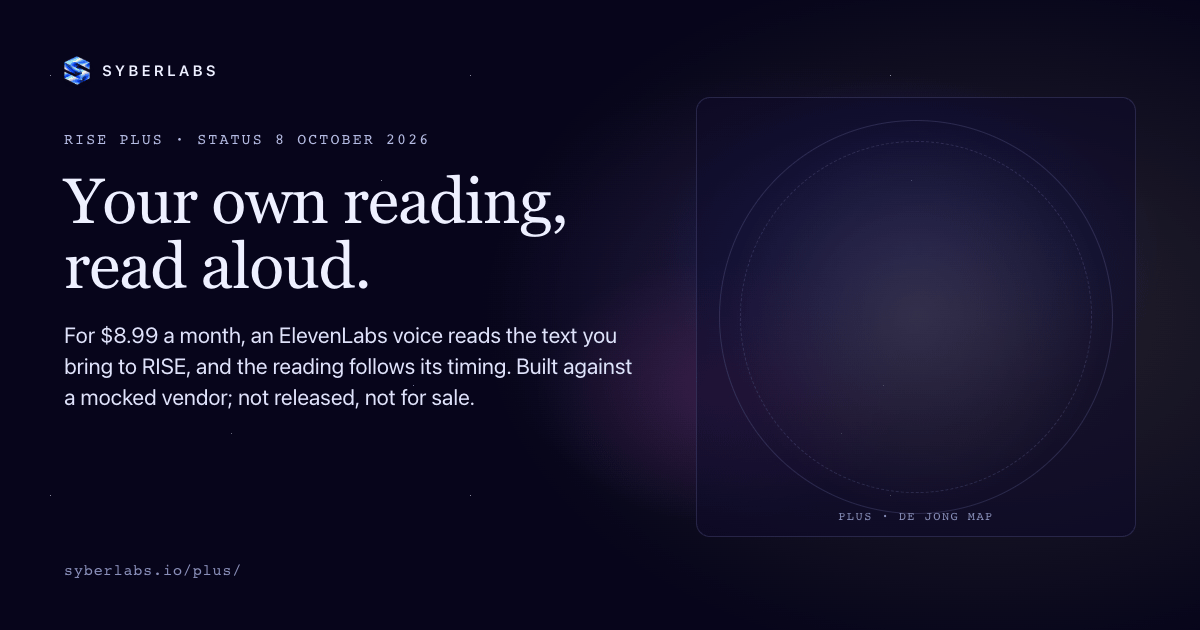
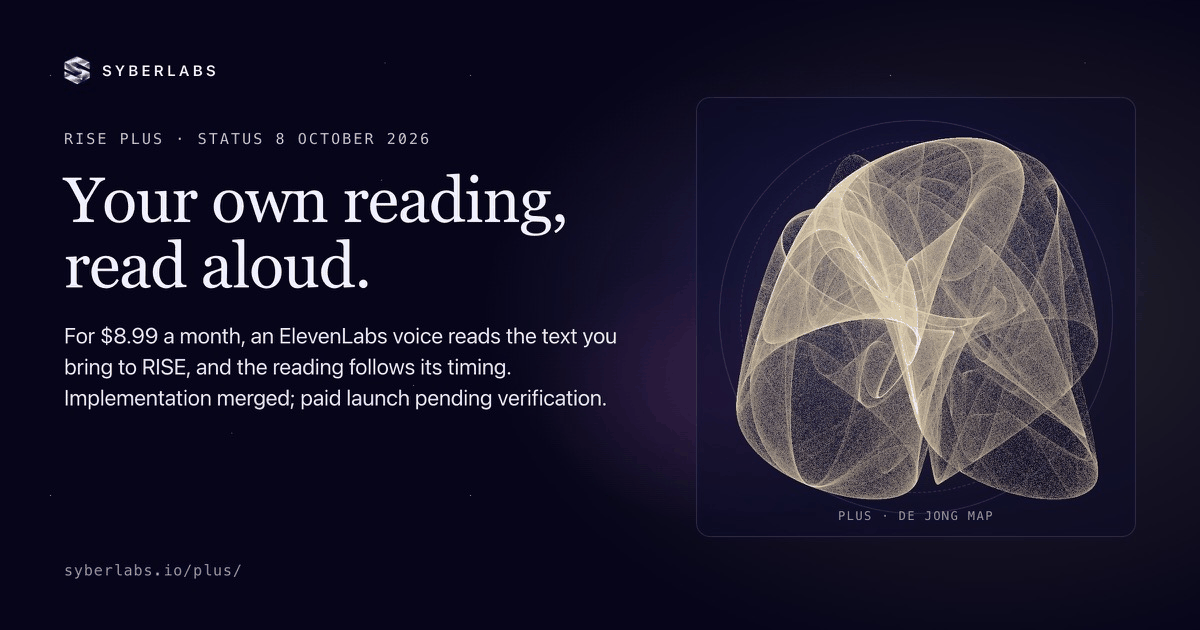
Clarify preview branding and paid voice availability

diff --git a/src/App.jsx b/src/App.jsx
@@ -98,7 +98,7 @@ function Hero() {
       <ul className="sy-wrap">
         <li style={{ '--sy-accent': '#f2d9a6' }}><a href={RISE_APP}><span className="home-launch__meta">RISE Reader · Open beta</span><span className="home-launch__title">Read a poem<Icon name="external" /></span><span className="home-launch__note">Begin with words, light and sound.</span></a></li>
         <li style={{ '--sy-accent': '#ff91df' }}><a href={SKETCH_APP}><span className="home-launch__meta">RISE Sketch · Live</span><span className="home-launch__title">Draw with living ink<Icon name="external" /></span><span className="home-launch__note">Make a mark. Watch it grow.</span></a></li>
-        <li style={{ '--sy-accent': '#90d8f0' }}><a href={OMNI_PREVIEW}><span className="home-launch__meta">FLYSPACE · Preview</span><span className="home-launch__title">Explore a workspace<Icon name="external" /></span><span className="home-launch__note">Try the canvas. AI needs the local app.</span></a></li>
+        <li style={{ '--sy-accent': '#90d8f0' }}><a href={OMNI_PREVIEW}><span className="home-launch__meta">FLYSPACE · Preview</span><span className="home-launch__title">Explore a workspace<Icon name="external" /></span><span className="home-launch__note">Opens as OmniOS. AI needs the local app.</span></a></li>
       </ul>
     </nav>
   </section>;
@@ -216,7 +216,7 @@ function Runtime() {
       </div>
     </div>
     <div className="home-premium sy-card" style={{ '--sy-accent': '#f2d9a6' }} data-reveal>
-      <p className="home-premium__text"><b className="home-premium__name">RISE Premium</b> offers ElevenLabs integration for <b className="home-premium__price">{RISE_PLUS.price}</b> a month.{!live && <Badge status={{ kind: 'early', label: 'Coming soon' }} />}</p>
+      <p className="home-premium__text"><b className="home-premium__name">RISE Premium</b> offers ElevenLabs integration for <b className="home-premium__price">{RISE_PLUS.price}</b> a month.{!live && <Badge status={{ kind: 'early', label: 'Paid launch pending' }} />}</p>
       <a className="sy-btn sy-btn--line home-premium__go" href="/plus/">Learn more<Icon name="arrow" /></a>
     </div>
   </section>;
@@ -251,7 +251,7 @@ const SHOW = {
       ['AI blocks', 'Wire data into AI personas that answer only from what their wires carry, and cite it.'],
       ['APIs on the fly', 'Hand it an OpenAPI document or MCP tools and they become blocks. Anything that writes waits for your approval.'],
     ],
-    note: 'The public preview runs the canvas and live data blocks. AI answers run in the local app with your own keys.',
+    note: 'The public preview opens as OmniOS, with a browser-local canvas and public data blocks. AI answers need the local app and your own keys.',
     primary: { label: 'Try the preview', href: OMNI_PREVIEW },
   },
   syberwork: {

diff --git a/projects/site-data.js b/projects/site-data.js
@@ -19,7 +19,7 @@ export const RISE_SAMPLE = 'https://rise.syberlabs.io/jev-scene-demo';
 export const OMNI_PREVIEW = 'https://omni.syberlabs.io/';
 export const SKETCH_APP = 'https://sketch.syberlabs.io/';
 
-// RISE Plus voice: the homepage section (src/App.jsx, PlusVoice), a RISE evidence row and the Atlas note, switched by
+// RISE Plus voice: the homepage runtime section (src/App.jsx), a RISE evidence row and the Atlas note, switched by
 // `state` alone. 'coming' keeps purchase links closed until a paid launch is verified. The implementation
 // in RISE #542 is merged; a merge does not establish live payment availability. 'live' sends the reader
 // to RISE's Settings. After verifying a paid launch and flipping, run `node scripts/site-chrome.mjs`
@@ -146,7 +146,7 @@ export const projects = [
     primary: { label: 'Open the preview', href: OMNI_PREVIEW },
     secondary: { label: 'Run it locally', href: 'https://github.com/SyberLabs/Flyspace#run' },
     ghost: { label: 'View source', href: 'https://github.com/SyberLabs/Flyspace', icon: 'external' },
-    live: { href: OMNI_PREVIEW, label: 'omni.syberlabs.io', note: 'Your canvas stays in your browser. Public data blocks are live; AI answers and keyed sources are disabled in the preview.' },
+    live: { href: OMNI_PREVIEW, label: 'omni.syberlabs.io', note: 'The preview opens as OmniOS. Your canvas stays in your browser. Public data blocks are live; AI answers and keyed sources are disabled.' },
     video: { src: '/omni-demo/omnios-morning-20261005.mp4', poster: '/omni-demo/omnios-morning-20261005-poster.jpg', title: 'The morning: one question, cited sources, a crystal, a second persona',
       caption: 'Recorded on 2026-10-05 from a local production build of OmniOS@e95ae73, driven through the “morning” journey its own acceptance test specifies. The data in the blocks and the two persona answers are that test’s fixed fixtures, not live markets or a live model; the canvas, wires, provenance chips and lineage are the real interface. Silent, 30 seconds.' },
     why: { title: 'Why a canvas.',

diff --git a/plus/index.html b/plus/index.html
@@ -10,11 +10,11 @@
   <meta property="og:title" content="RISE Plus: Your Own Reading, Read Aloud | SyberLabs">
   <meta property="og:description" content="RISE Plus: for $8.99 a month, an ElevenLabs voice reads the text you bring to RISE, and the reading follows the voice's timing. Implementation merged; paid launch pending verification. No payment is taken on this page.">
   <meta property="og:url" content="https://syberlabs.io/plus/">
-  <meta property="og:image" content="https://syberlabs.io/og/plus.png">
+  <meta property="og:image" content="https://syberlabs.io/og/plus.png?v=20261008-status">
   <meta name="twitter:card" content="summary_large_image">
   <meta name="twitter:title" content="RISE Plus: Your Own Reading, Read Aloud | SyberLabs">
   <meta name="twitter:description" content="RISE Plus: for $8.99 a month, an ElevenLabs voice reads the text you bring to RISE, and the reading follows the voice's timing. Implementation merged; paid launch pending verification. No payment is taken on this page.">
-  <meta name="twitter:image" content="https://syberlabs.io/og/plus.png">
+  <meta name="twitter:image" content="https://syberlabs.io/og/plus.png?v=20261008-status">
   <link rel="icon" href="/favicon-32x32.png?v=prism" type="image/png" sizes="32x32">
   <title>RISE Plus: Your Own Reading, Read Aloud | SyberLabs</title>
   <link rel="preconnect" href="https://fonts.googleapis.com">
